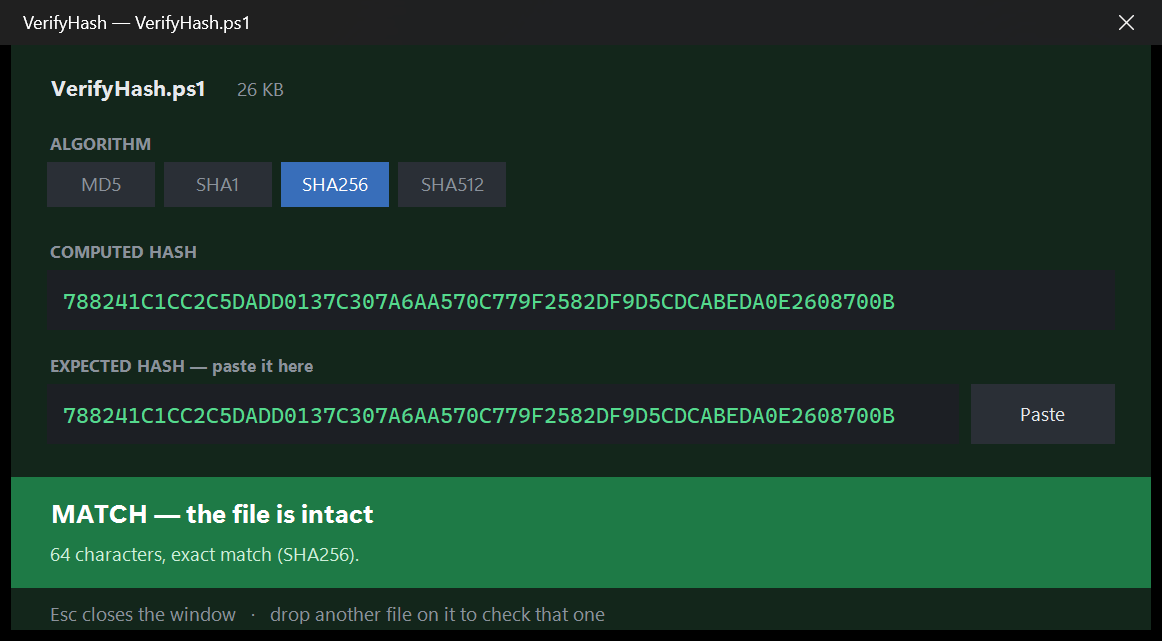
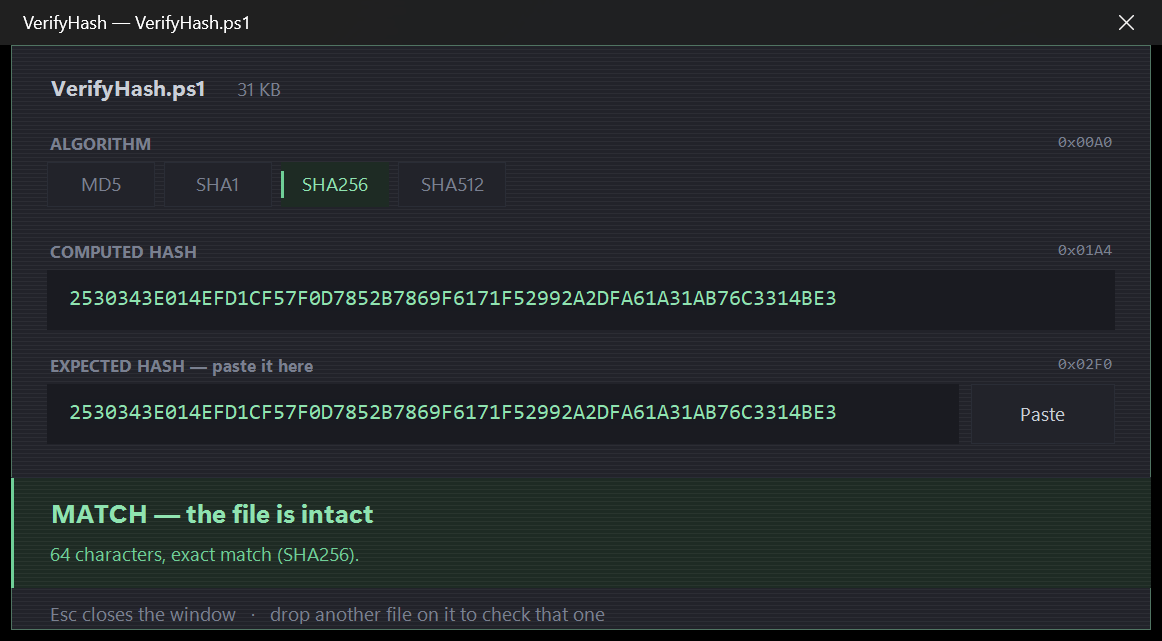
Restyle the interface, drop the console flash
Surface #22232A with a single green accent, 2 px accent bars marking the
active algorithm and the result band, Consolas hex markers on each section
header, hairline scanlines and a border blended toward the accent, rounded
corners through DWM. Same layout, same behaviour.

The context menu entry now runs conhost.exe --headless instead of
powershell.exe -WindowStyle Hidden: powershell.exe is a console program, so
Windows created a console window for it and hiding it afterwards still flashed
black on screen at every use.

The installer greys out Install once the entry is present and points here, and
greys out Uninstall when there is nothing to remove. Its state panel carries
the same accent bar, green when installed, red when stale.

French wording moved from empreinte to hash, including the menu entry.

diff --git a/README.fr.md b/README.fr.md
@@ -1,6 +1,6 @@
 # VerifyHash
 
-**Vérifiez un fichier téléchargé face à l'empreinte publiée, depuis le menu
+**Vérifiez un fichier téléchargé face au hash publié, depuis le menu
 clic droit de Windows.** Un seul fichier PowerShell, sans dépendance, sans
 droits administrateur.
 
@@ -10,7 +10,7 @@ droits administrateur.
 ![PowerShell](https://img.shields.io/badge/PowerShell-5.1-5391FE)
 ![Licence](https://img.shields.io/badge/licence-MIT-green)
 
-<img src="docs/screenshot.png" alt="La fenêtre de vérification, verte, avec une empreinte calculée et une empreinte attendue identiques" width="716">
+<img src="docs/screenshot.png" alt="La fenêtre de vérification, avec un hash calculé et un hash attendu identiques" width="1162">
 
 ## Le problème
 
@@ -19,8 +19,8 @@ Un site publie une somme de contrôle à côté de son téléchargement. Compare
 justement le moins fiable là où ça compte, au milieu de la chaîne.
 
 `Get-FileHash` donne la valeur, mais la comparaison reste à votre charge.
-VerifyHash fait le tout : clic droit sur le fichier, collez l'empreinte
-publiée, la fenêtre passe au vert ou au rouge.
+VerifyHash fait le tout : clic droit sur le fichier, collez le hash publié, le
+bandeau passe au vert ou au rouge.
 
 ## Installation
 
@@ -57,18 +57,22 @@ Ou clic droit sur le fichier → **Propriétés** → cocher **Débloquer** → 
 
 ## Utilisation
 
-Clic droit sur n'importe quel fichier → **Vérifier l'empreinte**.
+Clic droit sur n'importe quel fichier → **Vérifier le hash**.
 
-> Sous Windows 11, l'entrée peut se trouver derrière **Afficher plus
-> d'options**, ou `Maj` + clic droit.
+<img src="docs/context-menu.fr.png" alt="Le menu contextuel de Windows avec l'entrée Vérifier le hash" width="444">
+
+> Sous Windows 11, l'entrée se trouve dans le menu complet, derrière
+> **Afficher plus d'options** ou `Maj` + clic droit. Le menu compact de
+> Windows 11 n'accepte que des entrées fournies par une application
+> empaquetée, ce qu'un simple script ne peut pas être.
 
 Collez la valeur publiée par l'éditeur dans le second champ. La comparaison se
 fait au fil de la saisie, il n'y a pas de bouton à valider.
 
 - **MD5, SHA-1, SHA-256, SHA-512.**
-- **L'algorithme suit l'empreinte collée.** Une valeur de 32 caractères
-  bascule sur MD5, 40 sur SHA-1, 64 sur SHA-256, 128 sur SHA-512. Les boutons
-  d'algorithme ne servent presque jamais.
+- **L'algorithme suit le hash collé.** Une valeur de 32 caractères bascule sur
+  MD5, 40 sur SHA-1, 64 sur SHA-256, 128 sur SHA-512. Les boutons d'algorithme
+  ne servent presque jamais.
 - **Le texte collé est nettoyé.** Espaces, retours à la ligne et préfixes du
   type `SHA256:` sont ignorés, la casse est normalisée — copier une ligne
   entière depuis une page de téléchargement fonctionne.
@@ -78,7 +82,7 @@ fait au fil de la saisie, il n'y a pas de bouton à valider.
   fichier, même sur plusieurs gigaoctets. Changer d'algorithme en cours de
   calcul annule et relance sans attendre.
 - **Déposez un autre fichier sur la fenêtre** pour l'enchaîner.
-- Un bandeau en bas passe au vert si les empreintes correspondent, au rouge
+- Un bandeau en bas passe au vert si les deux hashs correspondent, au rouge
   sinon — lisible à trois mètres.
 - `Échap` ferme la fenêtre.
 
@@ -106,6 +110,12 @@ La clé de registre est supprimée ; le dossier peut ensuite être effacé.
 - Cette clé est écrite via l'API .NET `Microsoft.Win32.Registry` plutôt que
   par `New-Item` : le chemin contient un `*`, interprété comme un joker par le
   fournisseur Registry de PowerShell.
+- L'entrée lance `conhost.exe --headless powershell.exe …`. `powershell.exe`
+  est un programme console : Windows lui crée donc une fenêtre de console, et
+  `-WindowStyle Hidden` ne fait que la masquer après coup — assez longtemps
+  pour qu'un rectangle noir clignote à chaque utilisation. `--headless` donne
+  au processus une pseudo-console sans aucune fenêtre, et l'interface
+  s'affiche normalement.
 - Le hachage lit le fichier par blocs de 4 Mo avec `TransformBlock`, en rendant
   la main à la boucle de messages entre deux blocs. C'est ce qui garde la
   fenêtre réactive sans second thread — et ce qui rend instantanée

diff --git a/README.md b/README.md
@@ -10,7 +10,7 @@ rights.
 ![PowerShell](https://img.shields.io/badge/PowerShell-5.1-5391FE)
 ![License](https://img.shields.io/badge/license-MIT-green)
 
-<img src="docs/screenshot.png" alt="The verification window, green, showing a computed and an expected SHA-256 that match" width="716">
+<img src="docs/screenshot.png" alt="The verification window showing a computed and an expected SHA-256 that match" width="1162">
 
 ## The problem
 
@@ -59,8 +59,11 @@ Or right-click the file → **Properties** → tick **Unblock** → OK.
 
 Right-click any file → **Verify hash**.
 
-> On Windows 11 the entry may sit behind **Show more options**, or `Shift` +
-> right-click.
+<img src="docs/context-menu.png" alt="The Windows context menu with a Verify hash entry" width="444">
+
+> On Windows 11 the entry sits in the full menu, behind **Show more options**
+> or `Shift` + right-click. The compact Windows 11 menu only accepts entries
+> shipped as a packaged app, which a plain script cannot be.
 
 Paste the value published by the vendor into the second field. The comparison
 runs as you type; there is no button to confirm.
@@ -105,6 +108,11 @@ is removed and the folder can then be deleted.
 - That key is written through the .NET `Microsoft.Win32.Registry` API rather
   than `New-Item`. The path contains a `*`, which the PowerShell Registry
   provider would treat as a wildcard.
+- The entry runs `conhost.exe --headless powershell.exe …`. `powershell.exe`
+  is a console program, so Windows gives it a console window and
+  `-WindowStyle Hidden` only hides it after the fact — long enough to flash
+  black on screen at every use. `--headless` gives the process a pseudo
+  console with no window at all, and the interface still appears normally.
 - Hashing reads the file in 4 MB chunks through `TransformBlock`, pumping the
   message loop between chunks. That is what keeps the window responsive
   without a second thread — and what makes cancelling a 10 GB hash instant.
